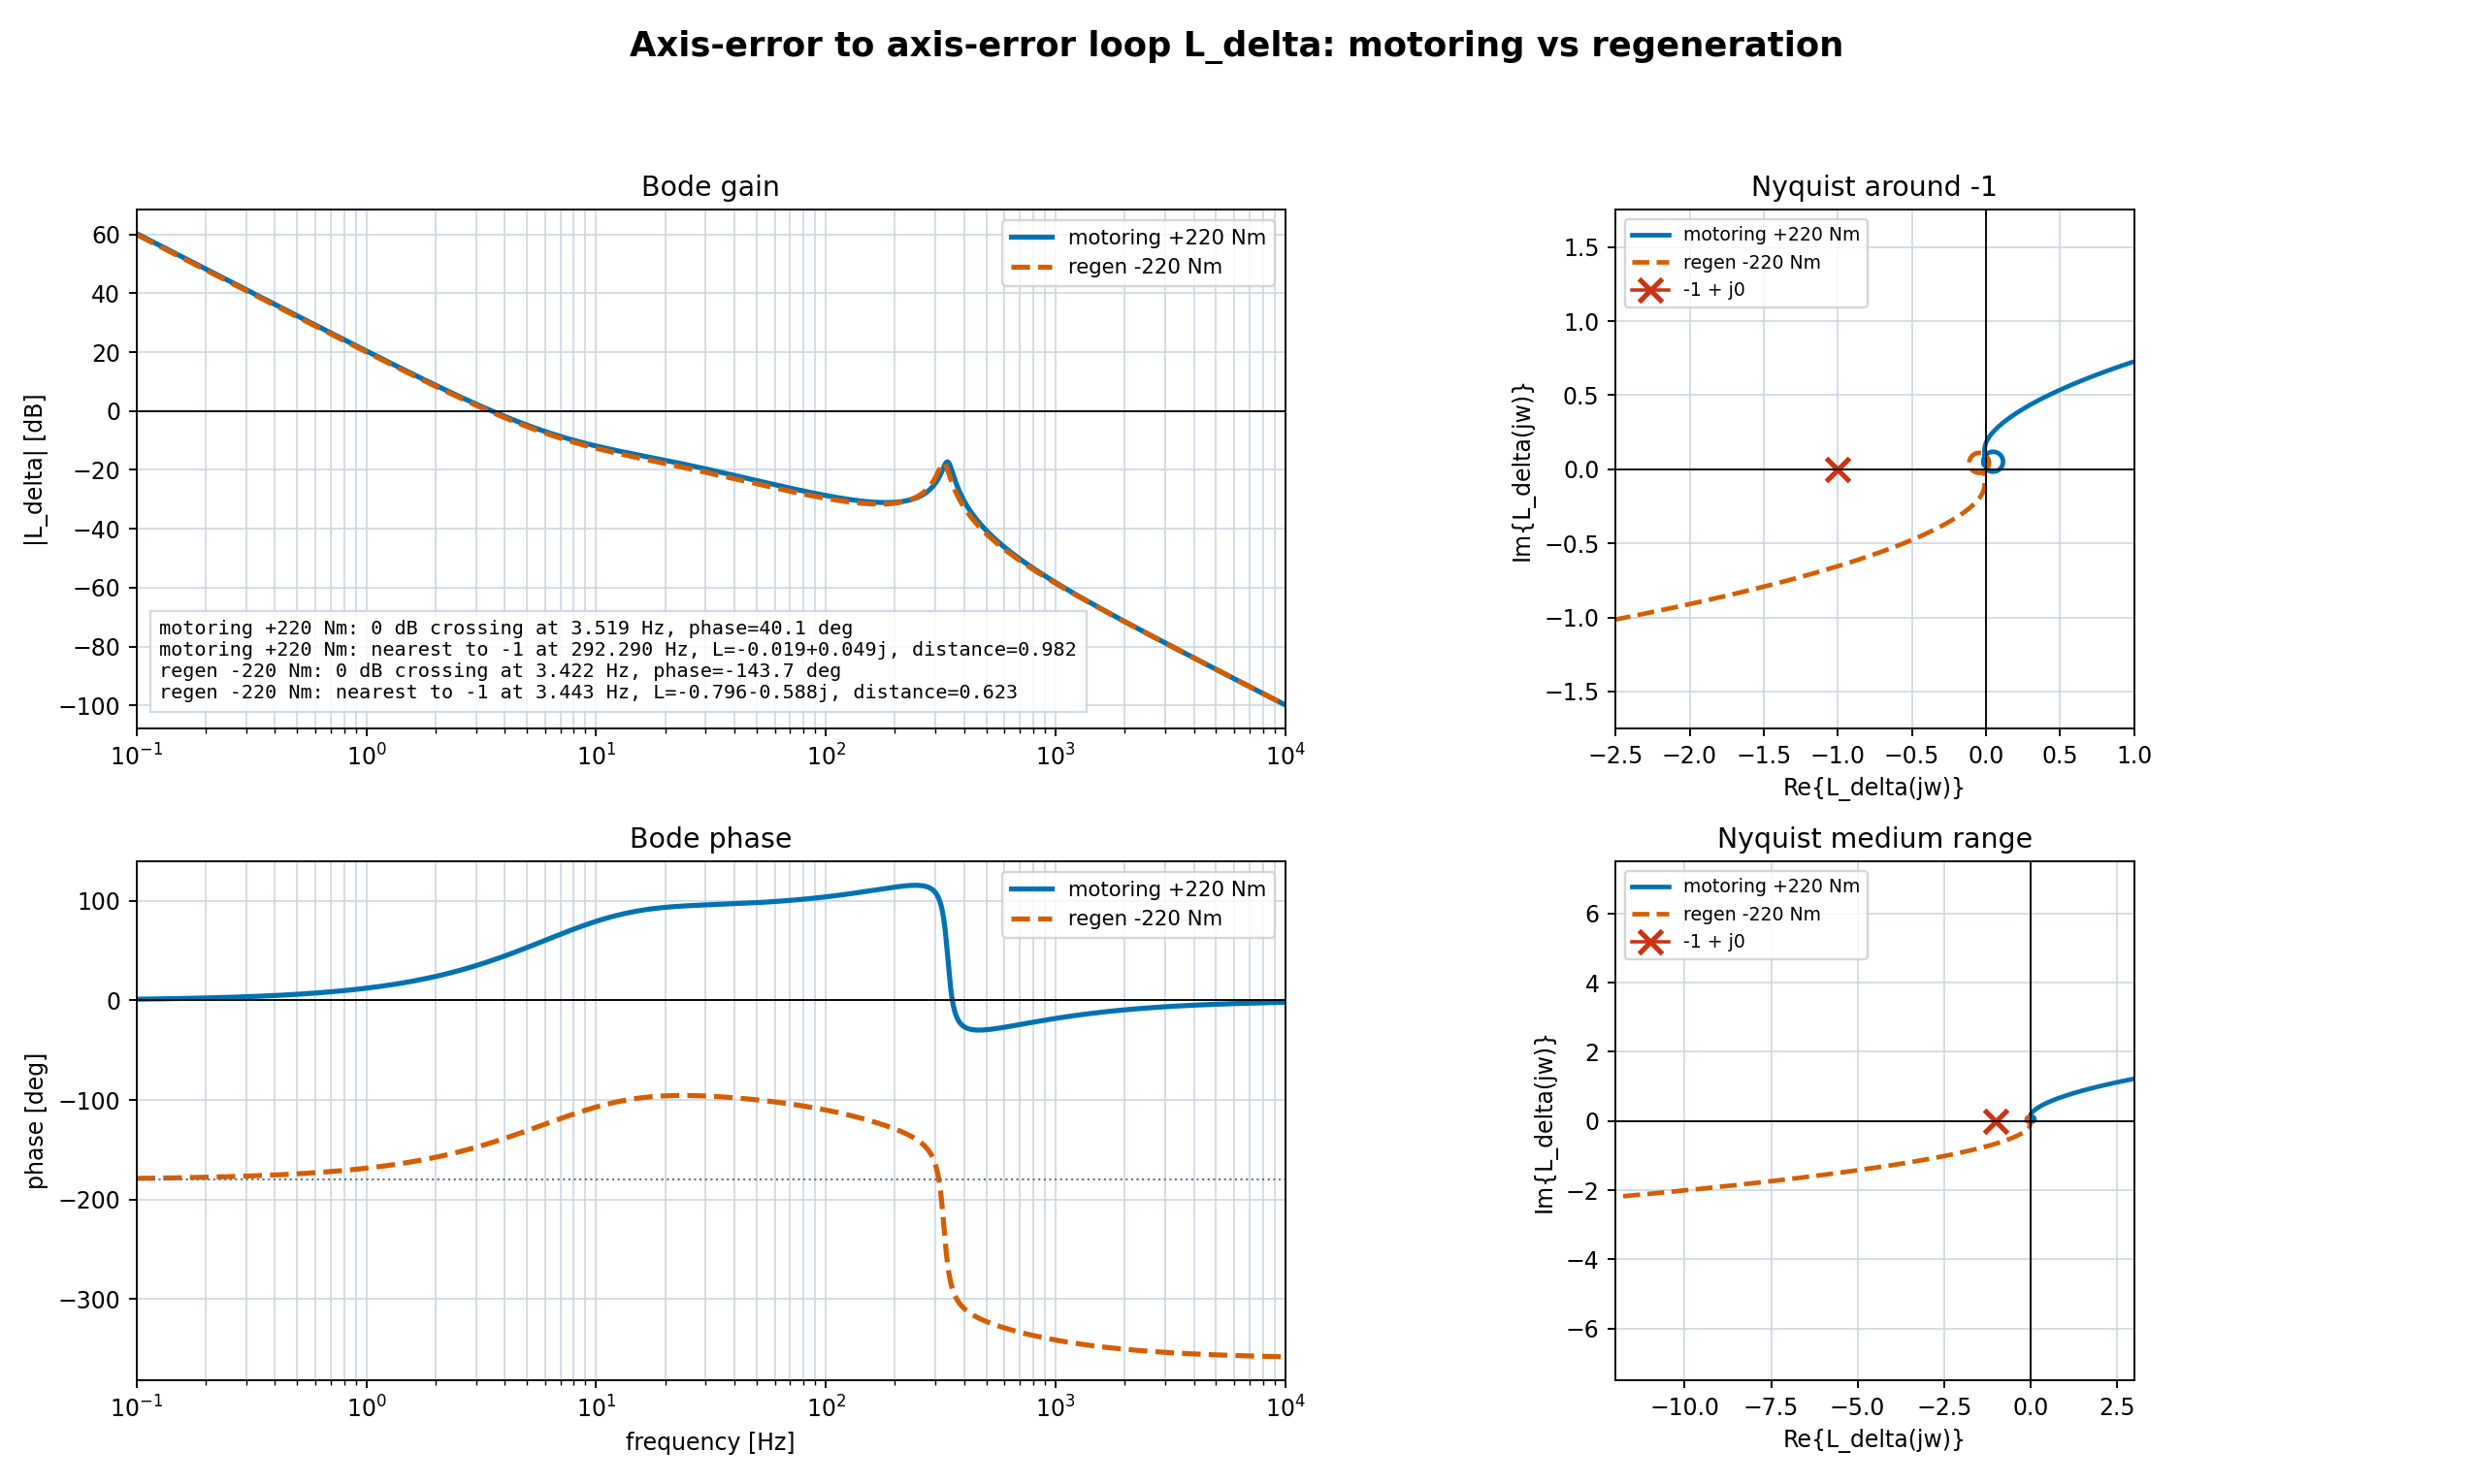
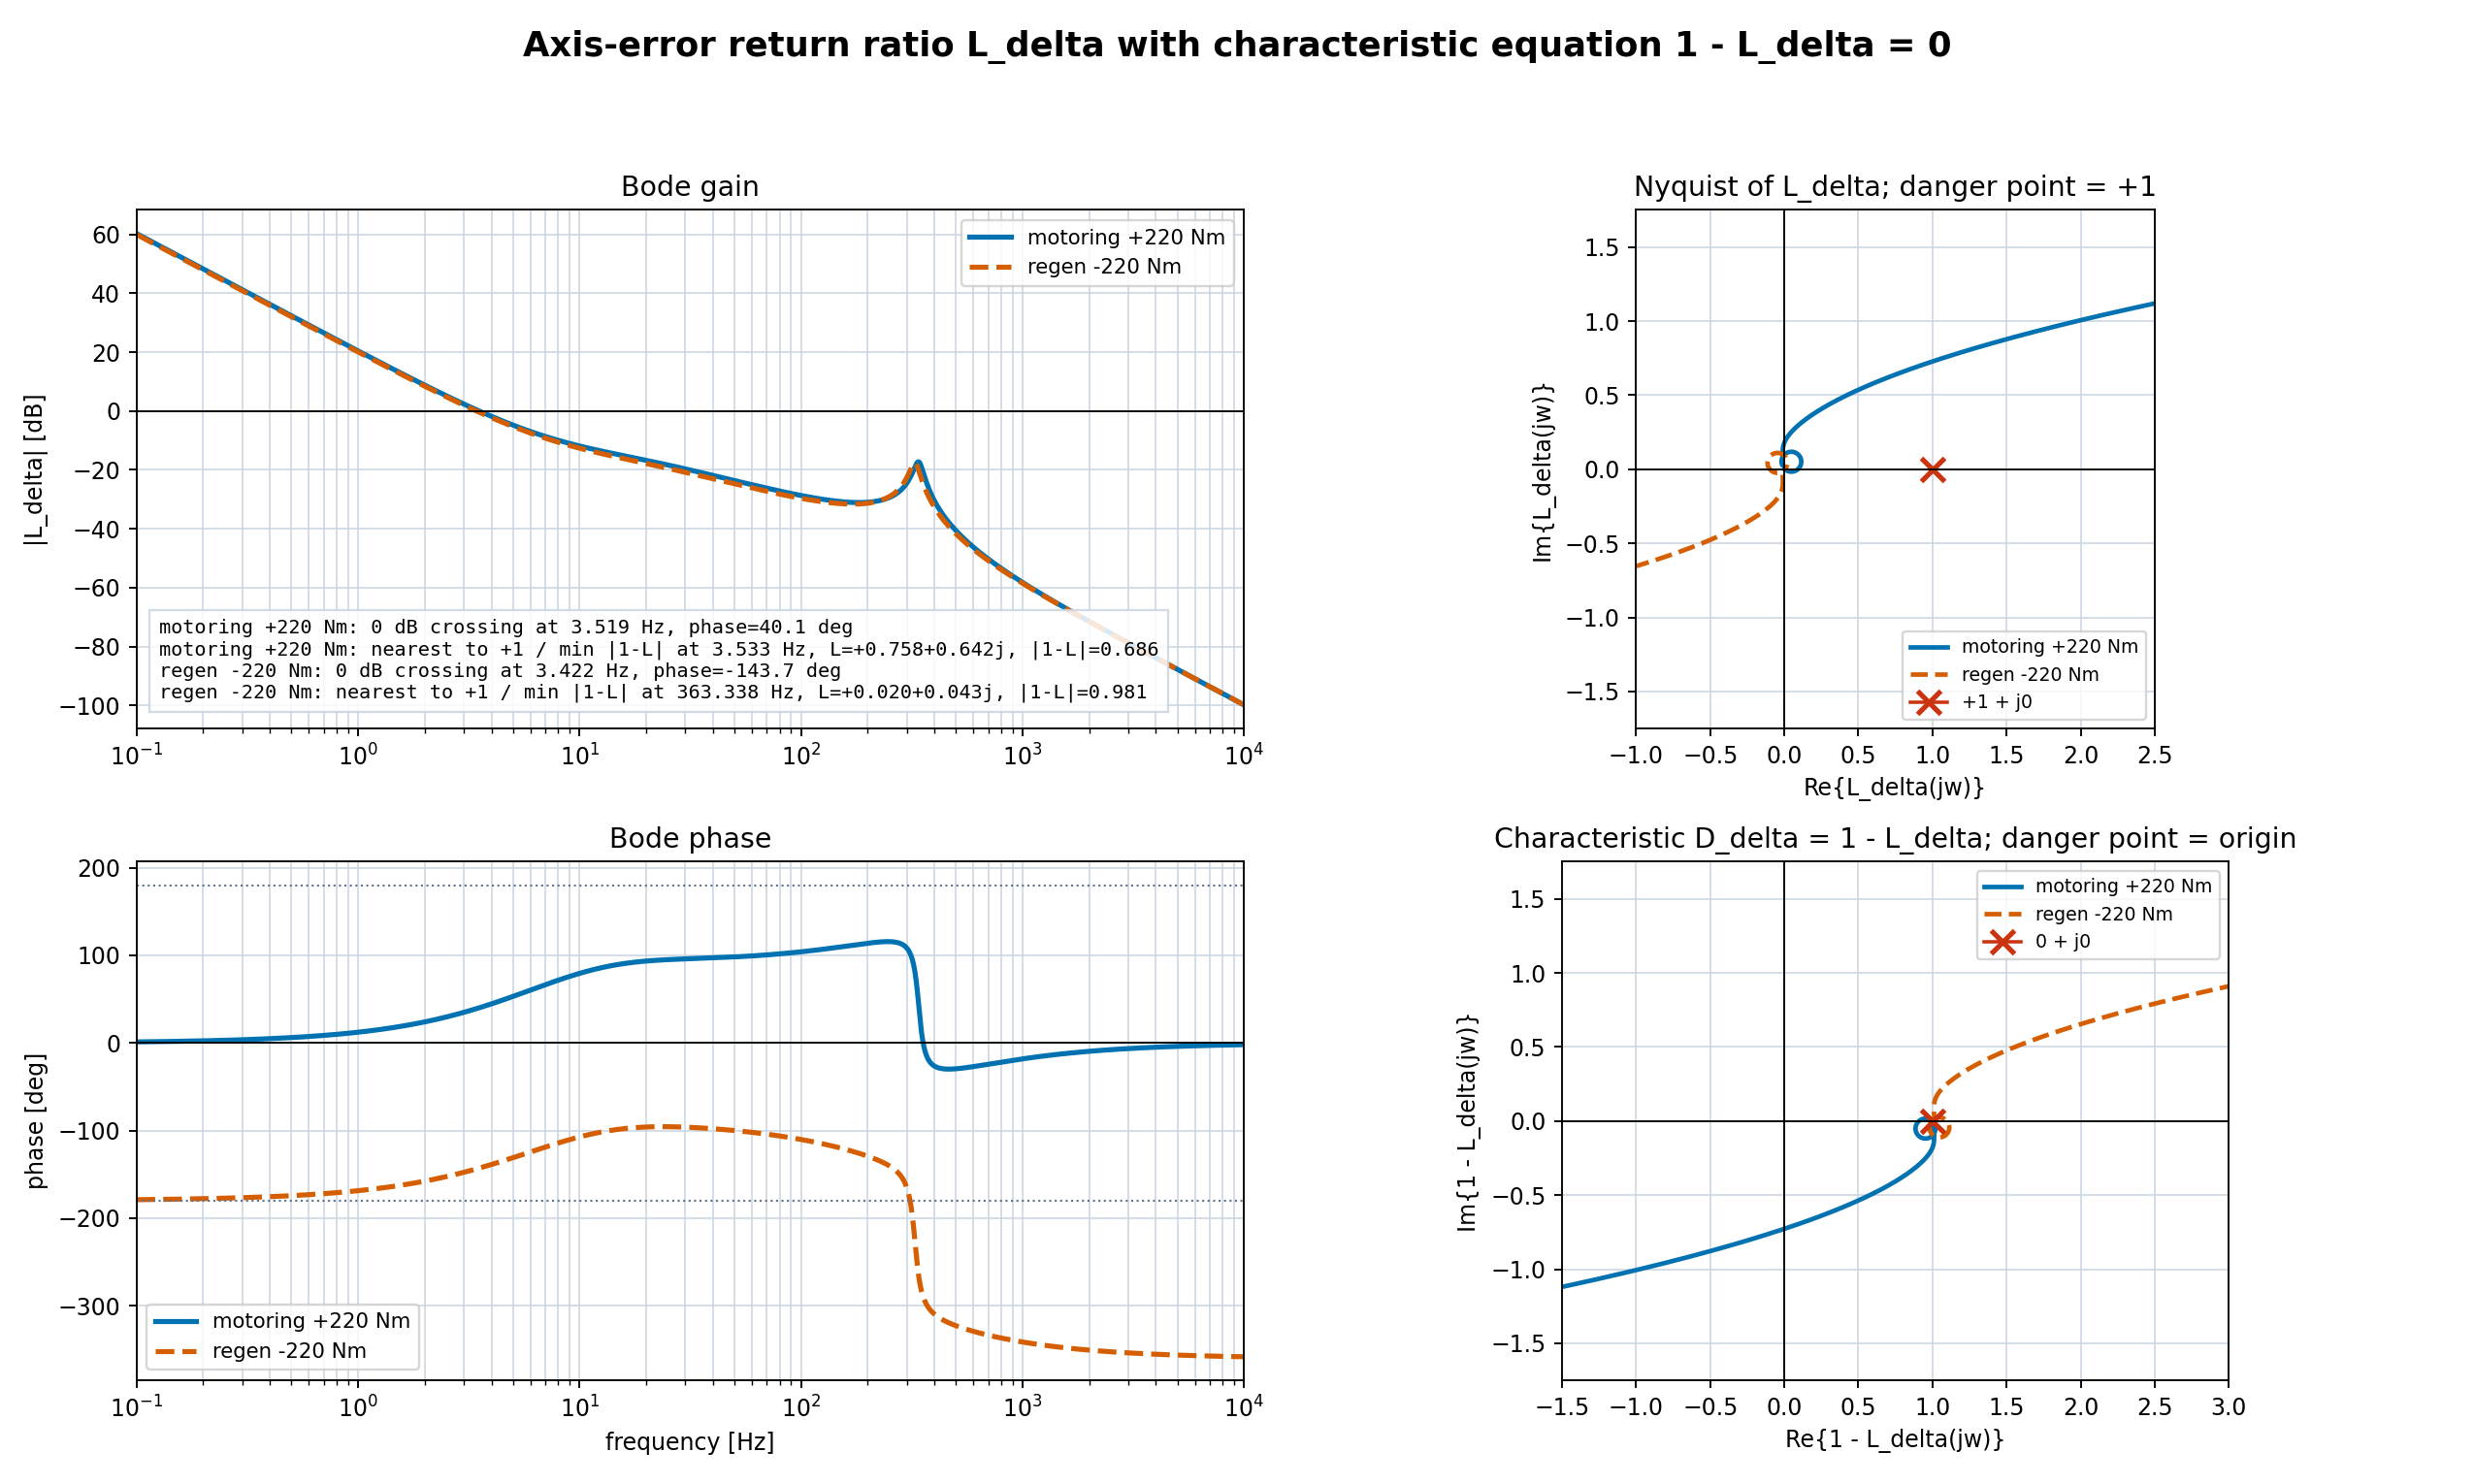
Correct L delta characteristic equation analysis

diff --git a/induction_motor_regen_instability/scripts/plot_l_delta_bode_matlab.m b/induction_motor_regen_instability/scripts/plot_l_delta_bode_matlab.m
@@ -16,6 +16,17 @@
 %    -> -               : Δδdot = - Δomega_slip_real
 %    -> 1/(jw)          : angle integration
 %
+% Because this definition already includes
+%
+%   Δδdot = - Δomega_slip_real,
+%
+% the characteristic equation of this reduced self-coupling model is
+%
+%   1 - L_delta(s) = 0.
+%
+% Therefore the danger point is L_delta = +1, or equivalently
+% D_delta = 1 - L_delta = 0.
+%
 % It compares motoring and regeneration at 5000 r/min, 220 Nm equivalent.
 
 clear; clc;
@@ -61,14 +72,14 @@ Lreg = calc_l_delta(IqReg, w, Rs, Rr, Ls, Lr, Lm, omegaR, Kp, Ki, Id0, Kslip);
 [fcMot, phMot] = first_zero_db_crossing(f, Lmot);
 [fcReg, phReg] = first_zero_db_crossing(f, Lreg);
 
-[distMot, idxMot] = min(abs(Lmot + 1));
-[distReg, idxReg] = min(abs(Lreg + 1));
+[distMot, idxMot] = min(abs(1 - Lmot));
+[distReg, idxReg] = min(abs(1 - Lreg));
 
 fprintf("motoring: 0 dB crossing = %.4g Hz, phase = %.2f deg\n", fcMot, phMot);
 fprintf("regen:    0 dB crossing = %.4g Hz, phase = %.2f deg\n", fcReg, phReg);
-fprintf("motoring: nearest to -1 at %.4g Hz, distance = %.4g, L = %.4g%+.4gj\n", ...
+fprintf("motoring: nearest to +1 / min |1-L| at %.4g Hz, |1-L| = %.4g, L = %.4g%+.4gj\n", ...
     f(idxMot), distMot, real(Lmot(idxMot)), imag(Lmot(idxMot)));
-fprintf("regen:    nearest to -1 at %.4g Hz, distance = %.4g, L = %.4g%+.4gj\n", ...
+fprintf("regen:    nearest to +1 / min |1-L| at %.4g Hz, |1-L| = %.4g, L = %.4g%+.4gj\n", ...
     f(idxReg), distReg, real(Lreg(idxReg)), imag(Lreg(idxReg)));
 
 %% Plot
@@ -98,26 +109,26 @@ legend("motoring +220 Nm", "regen -220 Nm", "Location", "best");
 subplot(2,2,2);
 plot(real(Lmot), imag(Lmot), "LineWidth", 1.8); hold on;
 plot(real(Lreg), imag(Lreg), "--", "LineWidth", 1.8);
-plot(-1, 0, "rx", "MarkerSize", 10, "LineWidth", 2);
+plot(1, 0, "rx", "MarkerSize", 10, "LineWidth", 2);
 grid on; axis equal;
-xlim([-2.5 1.0]);
+xlim([-1.0 2.5]);
 ylim([-1.75 1.75]);
 xlabel("Re{L_\delta(j\omega)}");
 ylabel("Im{L_\delta(j\omega)}");
-title("Nyquist around -1");
-legend("motoring", "regen", "-1+j0", "Location", "best");
+title("Nyquist of L_\delta; danger point = +1");
+legend("motoring", "regen", "+1+j0", "Location", "best");
 
 subplot(2,2,4);
-plot(real(Lmot), imag(Lmot), "LineWidth", 1.8); hold on;
-plot(real(Lreg), imag(Lreg), "--", "LineWidth", 1.8);
-plot(-1, 0, "rx", "MarkerSize", 10, "LineWidth", 2);
+plot(real(1 - Lmot), imag(1 - Lmot), "LineWidth", 1.8); hold on;
+plot(real(1 - Lreg), imag(1 - Lreg), "--", "LineWidth", 1.8);
+plot(0, 0, "rx", "MarkerSize", 10, "LineWidth", 2);
 grid on; axis equal;
-xlim([-12 3]);
-ylim([-7.5 7.5]);
-xlabel("Re{L_\delta(j\omega)}");
-ylabel("Im{L_\delta(j\omega)}");
-title("Nyquist medium range");
-legend("motoring", "regen", "-1+j0", "Location", "best");
+xlim([-1.5 3.0]);
+ylim([-1.75 1.75]);
+xlabel("Re{1-L_\delta(j\omega)}");
+ylabel("Im{1-L_\delta(j\omega)}");
+title("Characteristic D_\delta = 1-L_\delta");
+legend("motoring", "regen", "0+j0", "Location", "best");
 
 %% ===================== Local functions =====================
 

diff --git a/induction_motor_regen_instability/README.md b/induction_motor_regen_instability/README.md
@@ -14,14 +14,28 @@
 → 角度積分で Δδ
 ```
 
-この軸ずれループは数Hz帯にゲイン交差を持つ。力行と回生でゲインは大きく変わらないが、回生では位相が $-180^\circ$ 方向へ寄るため、安定余裕が小さくなる。今回の縮約ループでは、
+この軸ずれループは数Hz帯にゲイン交差を持つ。ただし、ここで定義した $L_\delta$ には
 
-| 条件 | 0 dB交差周波数 | 位相 |
-|---|---:|---:|
-| 力行 +220 Nm | 3.52 Hz | +40.1 deg |
-| 回生 -220 Nm | 3.42 Hz | -143.7 deg |
+$$
+\Delta\dot{\delta}
+\simeq
+-\Delta\omega_{\mathrm{slip,real}}
+$$
 
-である。
+のマイナス符号を含めている。したがって、縮約された軸ずれ自己結合の特性方程式は
+
+$$
+1-L_\delta(s)=0
+$$
+
+であり、危険点は $L_\delta=+1$ である。この定義で見ると、縮約 $L_\delta$ 単体は「回生だけ不安定化する」ことを定量的には説明しない。
+
+| 条件 | 0 dB交差周波数 | $\angle L_\delta$ | $\min\lvert1-L_\delta\rvert$ |
+|---|---:|---:|---:|
+| 力行 +220 Nm | 3.52 Hz | +40.1 deg | 0.686 |
+| 回生 -220 Nm | 3.42 Hz | -143.7 deg | 0.981 |
+
+である。つまり、縮約 $L_\delta$ は「どの信号経路で位相が変わるか」を理解するためのモデルであり、最終的な不安定判定には不足している。
 
 さらに、全閉ループをMIMO return ratioで見ると、回生だけ
 
@@ -36,7 +50,7 @@ $$
 | 力行 +220 Nm | 1.000 | 10000 Hz |
 | 回生 -220 Nm | 0.332 | 4.51 Hz |
 
-したがって、「回生だけ不安定化する」現象は、軸ずれループの位相悪化として直感的に説明でき、MIMO特性方程式の周波数応答で定量的にも再現できる。
+したがって、「回生だけ不安定化する」現象は、軸ずれ経路の符号・位相変化を含む全電流制御系のMIMO特性方程式で評価する必要がある。縮約 $L_\delta$ は原因経路の説明には有用だが、安定/不安定の判定は MIMO return ratio で行う。
 
 実務上の対策は、滑り計算を `id_ref` 起点の磁束だけに依存させないことである。`id_feedback` または実磁束を滑り計算に入れると、実磁束変動が滑り指令へ戻り、危険な数Hz帯の低周波モードが抑制される。
 
@@ -264,16 +278,26 @@ $$
 
 である。最後の $1/(j\omega)$ は $\Delta\dot{\delta}$ から $\Delta\delta$ への角度積分で、常に $-90^\circ$ を加える。
 
+この $L_\delta$ は $\Delta\dot{\delta}=-\Delta\omega_{\mathrm{slip,real}}$ のマイナス符号を含んだ「戻り軸ずれ」である。したがって、軸ずれ状態の自己結合として見たときの特性方程式は
+
+$$
+1-L_\delta(s)=0
+$$
+
+であり、危険点は $L_\delta=+1$、または $D_\delta=1-L_\delta=0$ である。
+
 力行と回生の $L_{\delta}$ は以下である。
 
 ![L delta motoring regen compare](./l_delta_motoring_regen_compare.png)
 
-重要なのは、ゲイン差ではなく位相差である。0 dB交差周波数は力行と回生でほぼ同じだが、回生だけ $-180^\circ$ 側に寄る。
+0 dB交差周波数は力行と回生でほぼ同じであり、位相は大きく異なる。しかし、$1-L_\delta=0$ で判定すると、$L_\delta$ の危険点は $-1$ ではなく $+1$ である。
 
-| 運転 | 0 dB交差周波数 | $\angle L_\delta$ | $-1+j0$ への距離 |
-|---|---:|---:|---:|
-| 力行 +220 Nm | 3.519 Hz | +40.1 deg | 0.982 |
-| 回生 -220 Nm | 3.422 Hz | -143.7 deg | 0.623 |
+| 運転 | 0 dB交差周波数 | $\angle L_\delta$ | $\min\lvert1-L_\delta\rvert$ | 最近接周波数 |
+|---|---:|---:|---:|---:|
+| 力行 +220 Nm | 3.519 Hz | +40.1 deg | 0.686 | 3.533 Hz |
+| 回生 -220 Nm | 3.422 Hz | -143.7 deg | 0.981 | 363.338 Hz |
+
+この結果から、縮約 $L_\delta$ 単体で「回生だけが不安定側」とは言えない。むしろ $1-L_\delta$ の距離だけを見れば、力行のほうが $+1$ に近い。したがって、この章の $L_\delta$ は不安定判定そのものではなく、軸ずれがどの経路で電流・磁束・滑りへ戻るかを分解するための説明モデルとして扱う。
 
 ### 2.4 位相の足し上げ
 
@@ -309,7 +333,7 @@ $$
 | $\Delta\dot{\delta}=-\Delta\omega_{\mathrm{slip,real}}$ | -54 deg |
 | $\Delta\delta=\Delta\dot{\delta}/j\omega$ | -144 deg |
 
-したがって、回生だけ位相余裕が小さくなる理由は、以下の順序で説明できる。
+したがって、$L_\delta$ の位相が力行と回生で大きく分かれる理由は、以下の順序で説明できる。
 
 1. 回生では $\Delta\delta\rightarrow\Delta e_d$ が同相になる。
 2. そのため $\Delta v_d$ と $\Delta v_q$ がほぼ同相で出る。
@@ -317,7 +341,7 @@ $$
 4. $\Delta i_q$ と $\Delta\Phi$ から作る $\Delta\omega_{\mathrm{slip,real}}$ の位相が回生側で $+126^\circ$ になる。
 5. $\Delta\dot{\delta}=-\Delta\omega_{\mathrm{slip,real}}$ と角度積分 $1/(j\omega)$ により、最終的な $L_\delta$ が $-144^\circ$ となる。
 
-つまり、回生だけが悪い理由は「回生のゲインが大きい」ことではなく、$I_q$ 符号反転を起点にして、軸ずれループの戻り位相が $-1+j0$ 方向へ回ることである。
+ただし、この位相差だけから「回生だけ不安定」とは結論できない。$L_\delta$ に $\Delta\dot{\delta}=-\Delta\omega_{\mathrm{slip,real}}$ を含めた定義では、特性方程式は $1-L_\delta=0$ であり、危険点は $+1$ である。この基準では縮約 $L_\delta$ 単体は回生不安定を説明しない。回生だけの不安定判定には、次章のMIMO特性方程式が必要である。
 
 ### 2.5 $\Delta i_q$ と $\Delta\Phi$ の寄与
 
@@ -367,7 +391,7 @@ $\Delta\Phi$ 応答自体は力行と回生で大きく変わらない。力行/
 
 ### 2.6 高速ほど悪化する理由
 
-速度を振ると、回生側の交差位相は高回転ほど $-180^\circ$ 側へ寄る。
+速度を振ると、回生側の交差位相は高回転ほど変化する。これは軸ずれから滑り変動へ至る経路が速度依存であることを示すが、$1-L_\delta=0$ の基準では、この図だけで安定/不安定は判定しない。
 
 ![L delta speed sweep](./l_delta_speed_sweep_bode.png)
 
@@ -382,7 +406,7 @@ $\Delta\Phi$ 応答自体は力行と回生で大きく変わらない。力行/
 | 回生 | 5000 r/min | 3.42 Hz | -143.8 deg |
 | 回生 | 6000 r/min | 3.09 Hz | -146.6 deg |
 
-この縮約ループだけでは不安定を最終判定しない。ナイキスト上では5000 r/min条件でも $-1+j0$ を包囲しないためである。ただし、「高速回生ほど危険な方向へ移動する」ことは明確に説明できる。
+この縮約ループだけでは不安定を最終判定しない。$L_\delta$ の定義にマイナス符号を含めた場合、判定すべき特性方程式は $1-L_\delta=0$ であり、危険点は $+1$ であるためである。速度依存の最終判定は、3章のMIMO特性方程式で行う。
 
 ## 3. MIMO特性方程式による不安定周波数応答の再現
 
@@ -445,7 +469,7 @@ $$
 | 力行 +220 Nm | 1.000 | 10000 Hz | 低周波の危険な谷なし |
 | 回生 -220 Nm | 0.332 | 4.51 Hz | 4.5 Hz付近で原点へ接近 |
 
-これは、縮約 $L_\delta$ で示した「回生だけ位相余裕が小さい」という説明と整合する。MIMO特性方程式でも、回生だけ数Hz帯に危険な谷が現れる。
+これは、縮約 $L_\delta$ だけでは説明できなかった「回生だけ低周波モードが危険化する」という差を、MIMO特性方程式では再現できていることを示す。
 
 ### 3.2 滑り計算の磁束入力による差
 
@@ -497,7 +521,7 @@ $$
 | 100% | 0.332 | 4.51 Hz |
 | 300% | 1.002 | 10000 Hz |
 
-実験で「電流制御ゲインを0、または3000 rad/s相当にすると安定化する」という傾向は、この図で説明できる。中途半端なゲインでは数Hz帯のMIMO特性方程式が原点へ近づき、危険な低周波モードを作る。一方、ゲイン0ではPIが軸ずれループを励起せず、非常に高いゲインでは低周波の電流偏差を強く抑え込む。
+実験で「電流制御ゲインを0、または3000 rad/s相当にすると安定化する」という傾向は、この図で説明できる。中途半端なゲインでは数Hz帯のMIMO特性方程式が原点へ近づき、危険な低周波モードを作る。一方、ゲイン0ではPIによる電圧応答が軸ずれ経路へ戻らず、非常に高いゲインでは低周波の電流偏差を強く抑え込む。
 
 ### 3.5 固有値による確認
 
@@ -640,12 +664,12 @@ $$
 
 1. 回生では $I_q<0$ となり、軸ずれからd軸電流誤差への符号が力行と反転する。
 2. その結果、PIが作る $v_d/v_q$ の位相関係が変わる。
-3. 高速回転座標のモータ応答 $G_m$ を通ると、回生側では $\Delta i_q$ と $\Delta\Phi$ から作られる実すべり変動が、軸ずれを戻す方向から外れる。
-4. 角度積分 $1/(j\omega)$ がさらに $-90^\circ$ を加え、回生側の $L_\delta$ は $-180^\circ$ 方向へ近づく。
+3. 高速回転座標のモータ応答 $G_m$ を通ると、回生側では $\Delta i_q$ と $\Delta\Phi$ から作られる実すべり変動の位相が力行と大きく異なる。
+4. ただし、$\Delta\dot{\delta}=-\Delta\omega_{\mathrm{slip,real}}$ を含めた縮約 $L_\delta$ では特性方程式が $1-L_\delta=0$ となるため、$L_\delta$ 単体では回生だけの不安定判定はできない。
 5. MIMO特性方程式 $\det(I+L_i)=0$ で見ると、回生だけ4.5 Hz付近に低周波の谷が出る。
 6. 滑り計算に実磁束または $i_d$ フィードバックを入れると、この低周波の谷が浅くなり、安定方向へ移る。
 
-したがって、問題の本質は「電流PIが悪い」ではなく、**指令ベース滑りと実磁束の切り離しにより、電流PIが軸ずれ/滑りの低周波ループを励起すること**である。
+したがって、問題の本質は「電流PIが悪い」ではなく、**指令ベース滑りと実磁束の切り離しにより、電流PIを含むMIMO内部結合が数Hz帯のモードを励起すること**である。軸ずれ縮約モデルは、その内部結合を理解するための説明モデルであり、安定判定はMIMO特性方程式で行う。
 
 ## 付録A. 滑り周波数小信号式の導出
 